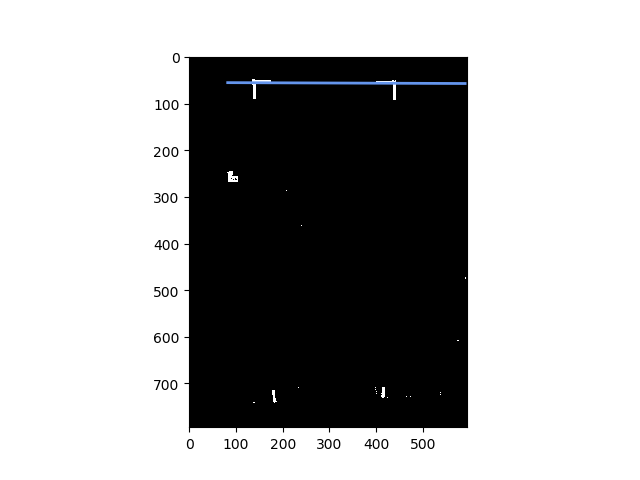
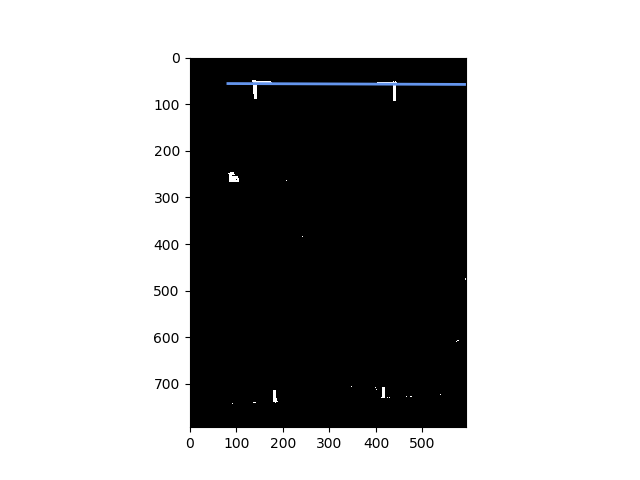
some changes

diff --git a/project_improvements/doors_detection/main.py b/project_improvements/doors_detection/main.py
@@ -12,14 +12,15 @@ cur_cwd = os.getcwd()
 os.chdir(os.path.abspath(os.path.join(cur_cwd, 'project_improvements', 'doors_detection')))
 
 
-# img = cv2.imread('door_raw.jpg')
+img_cv = cv2.imread('door_raw.jpg')
+img_mp = mpimg.imread('door_raw.jpg')
 
-img2 = mpimg.imread('door_raw.jpg')
-img2 = cv2.resize(img2, None, fx=0.2, fy=0.2)
+img_cv = cv2.resize(img_cv, None, fx=0.2, fy=0.2)
+img_mp = cv2.resize(img_mp, None, fx=0.2, fy=0.2)
 
-img2_hsv = cv2.cvtColor(img2, cv2.COLOR_RGB2HSV)
+img2_hsv = cv2.cvtColor(img_mp, cv2.COLOR_RGB2HSV)
 
-plt.imshow(img2)
+plt.imshow(img_mp)
 
 # get the yellow pixel in hsv
 # the yellow is approximately [193 165 65]  in RGB
@@ -38,6 +39,7 @@ mask_img = cv2.inRange(img2_hsv, lower_yellow, upper_yellow)
 
 plt.imshow(mask_img, 'gray')
 plt.savefig('Filteted_result.png')
+
 
 
 # Using the RANSAC algorithm to find the lines which resemble the lines of the doors
@@ -68,3 +70,73 @@ line_y_ransac = ransac_line.predict(line_X)
 plt.plot(line_X, line_y_ransac , color='cornflowerblue', linewidth=2,
          label='RANSAC regressor')
 plt.savefig('RANSAC_example.png')
+
+
+# Using the Hough transform algorithm to find the lines
+
+# first demonstrate on original image
+original_img = img_cv
+gray = cv2.cvtColor(original_img,cv2.COLOR_BGR2GRAY)
+edges = cv2.Canny(gray,50,150,apertureSize = 3)
+
+cv2.imshow('Edges', edges)
+
+lines = cv2.HoughLines(edges, rho=1, theta=np.pi/180, threshold=100)
+for line_num in range(lines.shape[0]):
+    rho = lines[line_num][0][0]
+    theta = lines[line_num][0][1]
+    a = np.cos(theta)
+    b = np.sin(theta)
+    x0 = a*rho
+    y0 = b*rho
+    x1 = int(x0 + 1000*(-b))
+    y1 = int(y0 + 1000*(a))
+    x2 = int(x0 - 1000*(-b))
+    y2 = int(y0 - 1000*(a))
+    cv2.line(original_img, (x1, y1), (x2, y2), (0, 0, 255), 1)
+
+cv2.imshow('Original image', original_img)
+cv2.imwrite('Houghlines_on_original_image.jpg', original_img)
+
+
+# now use on the image with the mask
+mask_img_2 = mask_img
+original_img = img_cv
+cv2.imshow('Mask image', mask_img_2)
+
+mask_img_2_colored = np.expand_dims(mask_img_2, 0)
+mask_img_2_colored = np.concatenate((mask_img_2_colored, mask_img_2_colored, mask_img_2_colored), 0)
+mask_img_2_colored = np.moveaxis(mask_img_2_colored, 0, -1)
+
+
+lines_2 = cv2.HoughLines(mask_img_2, rho=1, theta=np.pi/180, threshold=50)
+for line_num in range(lines_2.shape[0]):
+    rho = lines_2[line_num][0][0]
+    theta = lines_2[line_num][0][1]
+    a = np.cos(theta)
+    b = np.sin(theta)
+    x0 = a*rho
+    y0 = b*rho
+    x1 = int(x0 + 1000*(-b))
+    y1 = int(y0 + 1000*(a))
+    x2 = int(x0 - 1000*(-b))
+    y2 = int(y0 - 1000*(a))
+    cv2.line(original_img, (x1, y1), (x2, y2), (0, 0, 255), 1)
+
+cv2.imshow('Lines on image', original_img)
+cv2.imwrite('Houghlines_on_masked_image.jpg', original_img)
+
+
+
+# Unite both of the masks together to see if we get improvement
+new_mask = cv2.bitwise_and(edges, edges, mask = mask_img_2)
+
+# Trying to expand the mask with the stickers to see if we get better results
+cv2.imshow('The united mask', new_mask)
+
+
+
+
+
+
+

diff --git a/utils.py b/utils.py
@@ -5,11 +5,13 @@ import fnmatch
 import numpy as np
 
 
-def find_recursive(root_dir, ext='.jpg'):
+def find_recursive(root_dir, ext=['.jpg']):
     files = []
     for root, dirnames, filenames in os.walk(root_dir):
-        for filename in fnmatch.filter(filenames, '*' + ext):
-            files.append(os.path.join(root, filename))
+        for extension in ext:
+            for filename in fnmatch.filter(filenames, '*' + extension):
+                files.append(os.path.join(root, filename))
+
     return files
 
 

diff --git a/test.py b/test.py
@@ -93,7 +93,7 @@ def main(args):
 
     # Dataset and Loader
     if len(args.test_imgs) == 1 and os.path.isdir(args.test_imgs[0]):
-        test_imgs = find_recursive(args.test_imgs[0], ext='png')
+        test_imgs = find_recursive(args.test_imgs[0], ext=['.png', '.jpg'])
     else:
         test_imgs = args.test_imgs
     list_test = [{'fpath_img': x} for x in test_imgs]

diff --git a/project_improvements/improvements.md b/project_improvements/improvements.md
@@ -32,11 +32,15 @@ Below is the example:
 
 One of the way to extract the location from the door from this image is using the traditional methods. Although, also here different techniques may be used:
 
-1. Template matching - find the colorful lines of the same color, elongate until they meet. Color the shape inside. Analyze the shape, if this shape is a parallelogram, then the prediction is correct
+1. Find the colorful small lines of the required color. Use some method to estimate the door lines. Color the shape inside. Analyze the shape, if this shape is a parallelogram, then the prediction is correct
 
     Possible improvement - use the tracking algorithm to track the shapes in the corners. 
 
-    Implementation: the color of those segments is known apriori. Image analisys will be in the LAB color space, in order to decrease the lightness influence on the result.
+    Implementation: 
+    - the color of those segments is known apriori. Image analisys will be in the LAB color space, in order to decrease the lightness influence on the result.
+    - Lines extraction : 
+        - use RANSAC to find the lines in the image
+        - Use the Hough transform
 
 
 ### Preliminary results
